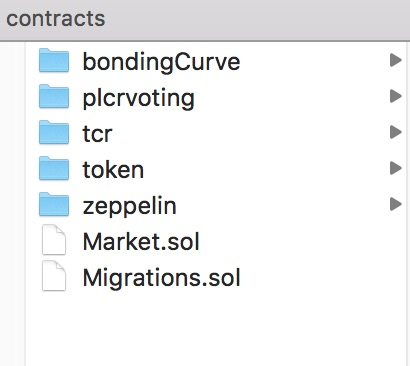
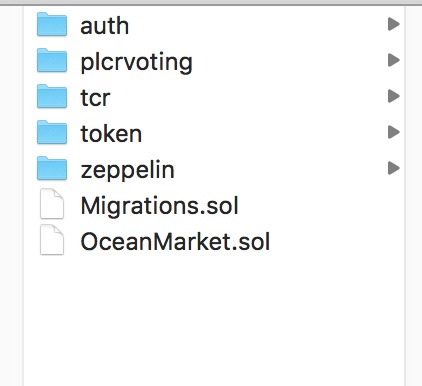
update doc, fix bug

diff --git a/doc/README.md b/doc/README.md
@@ -6,13 +6,12 @@ type: development
 status: initial draft
 editor: Fang Gong <fang@oceanprotocol.com>
 collaborator: Aitor Argomaniz <aitor@oceanprotocol.com>
-date: 06/01/2018
+date: 08/06/2018
 ```
 
 ## Further Documentation
 
 * [TCR Owner's Manual](owners_manual.md)
-* [On-chain Authorization Manual](authorization.md)
 
 ## Objective
 
@@ -27,7 +26,7 @@ In this project, we put following modules together:
 
 The project exposes the following public interfaces:
 
-### Curation Market
+### Token Curated Registry (OceanRegistry.sol)
 
 ```solidity
 //Allows a user to start an application. Takes tokens from user and sets apply stage end time.
@@ -64,53 +63,52 @@ function isWhitelisted(bytes32 _listingHash);
    function determineReward(uint _challengeID);
 ```
 
-### Marketplace
+### Marketplace (OceanMarket.sol)
 
 ```solidity
-// Register provider and assets （upload by changing uploadBits）
+// Register data assets
 function register(bytes32 assetId, uint256 price) public returns (bool success);
 
 // consumer can make payment
-function sendPayment(bytes32 _paymentId, address _receiver, uint256 _amount, uint256 _expire) public validAddress(msg.sender) returns (bool);
+function sendPayment(bytes32 _paymentId, address _receiver, uint256 _amount, uint256 _expire) public returns (bool);
 
-// release fund to provider
+// release fund to provider - must be called by OceanAuth contract
 function releasePayment(bytes32 _paymentId) public isLocked(_paymentId) returns (bool);
 
-// refund payment
+// refund payment - must be called by OceanAuth contract
 function refundPayment(bytes32 _paymentId) public isLocked(_paymentId) returns (bool);
 
-// verify the payment
-function verifyPayment(bytes32 _paymentId) public view returns(bool);
+// verify the payment is received
+function verifyPaymentReceived(bytes32 _paymentId) public view returns (bool);
 
 // Generate Unique Id for asset using input string parameter
 function generateStr2Id(string contents) public pure returns (bytes32);
 
 // Generate Unique Id for asset using input bytes parameter
 function generateBytes2Id(bytes contents) public pure returns (bytes32);
+
+// Market checks the TCR voting results
+function checkListingStatus(bytes32 listing) public view returns(bool);
+
+// Market changes the status of TCR according to voting result
+function changeListingStatus(bytes32 listing, bytes32 assetId) public returns(bool);
 ```
 
 
-### On-Chain Authorization
+### On-Chain Authorization (OceanAuth.sol)
 
 ```solidity
 // consumer request access to resource
-function initiateAccessRequest(bytes32 id, bytes32 resourceId, address provider, string pubKey, uint256 timeout) public returns (bool) {;
+function initiateAccessRequest(bytes32 resourceId, address provider, string pubKey, uint256 timeout) public returns (bool);
 
 // provider commit the access request
-function commitAccessRequest(bytes32 id, bool available, uint256 expire, string discovery, string permissions, string slaLink, string slaType)
-public onlyProvider(id) isAccessRequested(id) returns (bool);
+function commitAccessRequest(bytes32 id, bool isAvailable, uint256 expirationDate, string discovery, string permissions, string accessAgreementRef, string accessAgreementType) public onlyProvider(id) isAccessRequested(id) returns (bool);
+
+// consumer can cancel the access request
+function cancelAccessRequest(bytes32 id) public isAccessCommitted(id) onlyConsumer(id);
 
 // provider deliver the access token
-function deliverAccessToken(bytes32 id, string encryptedJWT) public onlyProvider(id) isAccessComitted(id) returns (bool);
-
-// provider get the temp public key
-function getTempPubKey(bytes32 id) public view onlyProvider(id) isAccessComitted(id) returns (string);
-
-// consumer get the encrypted JWT
-function getEncJWT(bytes32 id) public view onlyConsumer(id) isAccessComitted(id) returns (string);
-
-// provider verify the signature coming from consumer
-function isSigned(address _addr, bytes32 msgHash, uint8 v, bytes32 r, bytes32 s) public view returns (bool);
+function deliverAccessToken(bytes32 id, bytes encryptedAccessToken) public onlyProvider(id) isAccessCommitted(id) returns (bool);
 
 // provider verify the delivery of JWT access token
 function verifyAccessTokenDelivery(bytes32 id, address _addr, bytes32 msgHash, uint8 v, bytes32 r, bytes32 s) public
@@ -120,50 +118,41 @@ onlyProvider(id) isAccessComitted(id) returns (bool);
 ### Query functions
 
 ```solidity
-// provider query the temp public key of order
-function queryTempKey(bytes32 orderId) public view returns (string);
+// provider query the temp public key
+function getTempPubKey(bytes32 id) public view onlyProvider(id) isAccessCommitted(id) returns (string);
 
-// consumer query the encrypted access token of order
-function queryToken(bytes32 orderId) public view returns (string);
+// consumer query the encrypted access token
+function getEncryptedAccessToken(bytes32 id) public view onlyConsumer(id) isAccessCommitted(id) returns (bytes);
 
-// Return true if assetId is unique; otherwise, return false
-function checkUniqueId(bytes32 assetId) public view returns (bool);
+// provider uses this function to verify the signature comes from the consumer
+function isSigned(address _addr, bytes32 msgHash, uint8 v, bytes32 r, bytes32 s) public pure returns (bool);
 
-// Return true if assetId is valid for registered asset
-function checkValidId(bytes32 assetId) public view returns (bool);
-
-// Return the number of drops associated to the message.sender to an Asset
-function dropsBalance(bytes32 assetId) public view returns (uint256);
+// verify the status of access request
+function verifyCommitted(bytes32 id, uint256 status) public view returns (bool);
 
 // Return true or false if an Asset is active given the assetId
 function checkAsset(bytes32 assetId) public view returns (bool);
 
-// Retrieve the msg.sender Provider token balance
-function tokenBalance() public view returns (uint256);
+// Retrieve the price of asset
+function getAssetPrice(bytes32 assetId) public view returns (uint256);
 ```
 
 ###  Events
 
 ```solidity
-// Asset Events
+// OceanMarket Events
 event AssetRegistered(bytes32 indexed _assetId, address indexed _owner);
 event PaymentReceived(bytes32 indexed _paymentId, address indexed _receiver, uint256 _amount, uint256 _expire);
 event PaymentReleased(bytes32 indexed _paymentId, address indexed _receiver);
 event PaymentRefunded(bytes32 indexed _paymentId, address indexed _sender);
-event TempKeyCreated(bytes32 indexed _orderId, string _tempPublicKey, address indexed _consumer);
-event TokenCreated(bytes32 indexed _orderId, address indexed _provider);
 
-// Token Events
-event TokenWithdraw(address indexed _requester, uint256 amount);
-event TokenBuyDrops(address indexed _requester, bytes32 indexed _assetId, uint256 _ocn, uint256 _drops);
-event TokenSellDrops(address indexed _requester, bytes32 indexed _assetId, uint256 _ocn, uint256 _drops);
-
-// Authorization
-event RequestAccessConsent(bytes32 _id, address _consumer, address _provider, bytes32 _resource, uint _timeout, string _pubKey);
-event CommitConsent(bytes32 _id, uint256 _expire, string _discovery, string _permissions, string slaLink);
-event RefundPayment(address _consumer, address _provider, bytes32 _id);
-event PublishEncryptedToken(bytes32 _id, string encJWT);
-event ReleasePayment(address _consumer, address _provider, bytes32 _id);
+// OceanAuth Events
+event AccessConsentRequested(bytes32 _id, address _consumer, address _provider, bytes32 _resourceId, uint _timeout, string _pubKey);
+event AccessRequestCommitted(bytes32 _id, uint256 _expirationDate, string _discovery, string _permissions, string _accessAgreementRef);
+event AccessRequestRejected(address _consumer, address _provider, bytes32 _id);
+event AccessRequestRevoked(address _consumer, address _provider, bytes32 _id);
+event EncryptedTokenPublished(bytes32 _id, bytes _encryptedAccessToken);
+event AccessRequestDelivered(address _consumer, address _provider, bytes32 _id);
 ```
 
 ## File Structure
@@ -172,25 +161,13 @@ There are several folders and each includes solidity source files for each modul
 
 <img src="img/files.jpg" width="250" />
 
-* **bondingCurve**: it caculates the bonding curve values when users purchase drops or sell drops in the marketplace;
+* **auth**: OceanAuth contract for authorization;
 * **plcrvoting**: Partial Lock Commit Reveal Voting System;
 * **tcr**: the TCRs related files;
 * **token**: Ocean tokens based on ERC20 standard;
 * **zeppelin**: the library files from OpenZeppelin;
-* **market.sol**: curated proofs market (*on-going work*)
-
-## Architecture of Modules
-
-The dependency between different modules are illustrated as below:
-
-<img src="img/structure.jpg" width="800" />
-
-* Marketplace (Market.sol) sends listing hash to TCRs (Registry.sol) so that to create challenges.
-* Users can use Ocean Tokens (OceanToken.sol) to vote for or against (PLCRVoting.sol).
-* Voting is configured with the parameters (Parameterizer.sol).
-* Marketplace uses bonding curve (BancorFormula.sol) to determine the price of drops.
-* BancorFormula calculates the power function (Power.sol).
-* TCRs (Registry.sol) send the voting result back to Marketplace (Market.sol).
+* **Oceanmarket.sol**: curated proofs market (*on-going work*);
+* **Migrations.sol**: default contract for migration.
 
 ## Architecture of Solidity Market Contract
 

diff --git a/README.md b/README.md
@@ -2,7 +2,7 @@
 
 <h1 align="center">keeper-contracts</h1>
 
-> 💧 Integration of Markplace and Ocean Tokens in Solidity
+> 💧 Integration of TCRs, CPM and Ocean Tokens in Solidity
 > [oceanprotocol.com](https://oceanprotocol.com)
 
 [![Build Status](https://travis-ci.com/oceanprotocol/keeper-contracts.svg?token=soMi2nNfCZq19zS1Rx4i&branch=master)](https://travis-ci.com/oceanprotocol/keeper-contracts)
@@ -10,6 +10,7 @@
 
 Ocean Keeper implementation where we put the following modules together:
 
+* **TCRs**: users create challenges and resolve them through voting to maintain registries;
 * **Ocean Tokens**: the intrinsic tokens circulated inside Ocean network, which is used in the voting of TCRs;
 * **Marketplace**: the core marketplace where people can transact with each other with Ocean tokens.
 
@@ -123,7 +124,7 @@ Code style is enforced through the CI test process, builds will fail if there're
 
 ## Documentation
 
-* [**Main Documentation: Market and Ocean Tokens**](doc/)
+* [**Main Documentation: TCR, Market and Ocean Tokens**](doc/)
 * [Architecture (pdf)](doc/files/Smart-Contract-UML-class-diagram.pdf)
 * [Packaging of libraries](docs/packaging.md)
 
@@ -139,6 +140,8 @@ Ocean Protocol uses [C4 Standard process](https://github.com/unprotocols/rfc/blo
 
 This project builds on top of the work done in open source projects:
 
+- [ConsenSys/PLCRVoting](https://github.com/ConsenSys/PLCRVoting)
+- [skmgoldin/tcr](https://github.com/skmgoldin/tcr)
 - [OpenZeppelin/openzeppelin-solidity](https://github.com/OpenZeppelin/openzeppelin-solidity)
 
 

diff --git a/doc/owners_manual.md b/doc/owners_manual.md
@@ -1,5 +1,7 @@
 # TCR Owner's Manual
 
+### Author: Mike Goldin
+
 Prospect Park Edition
 
 ## Intro
